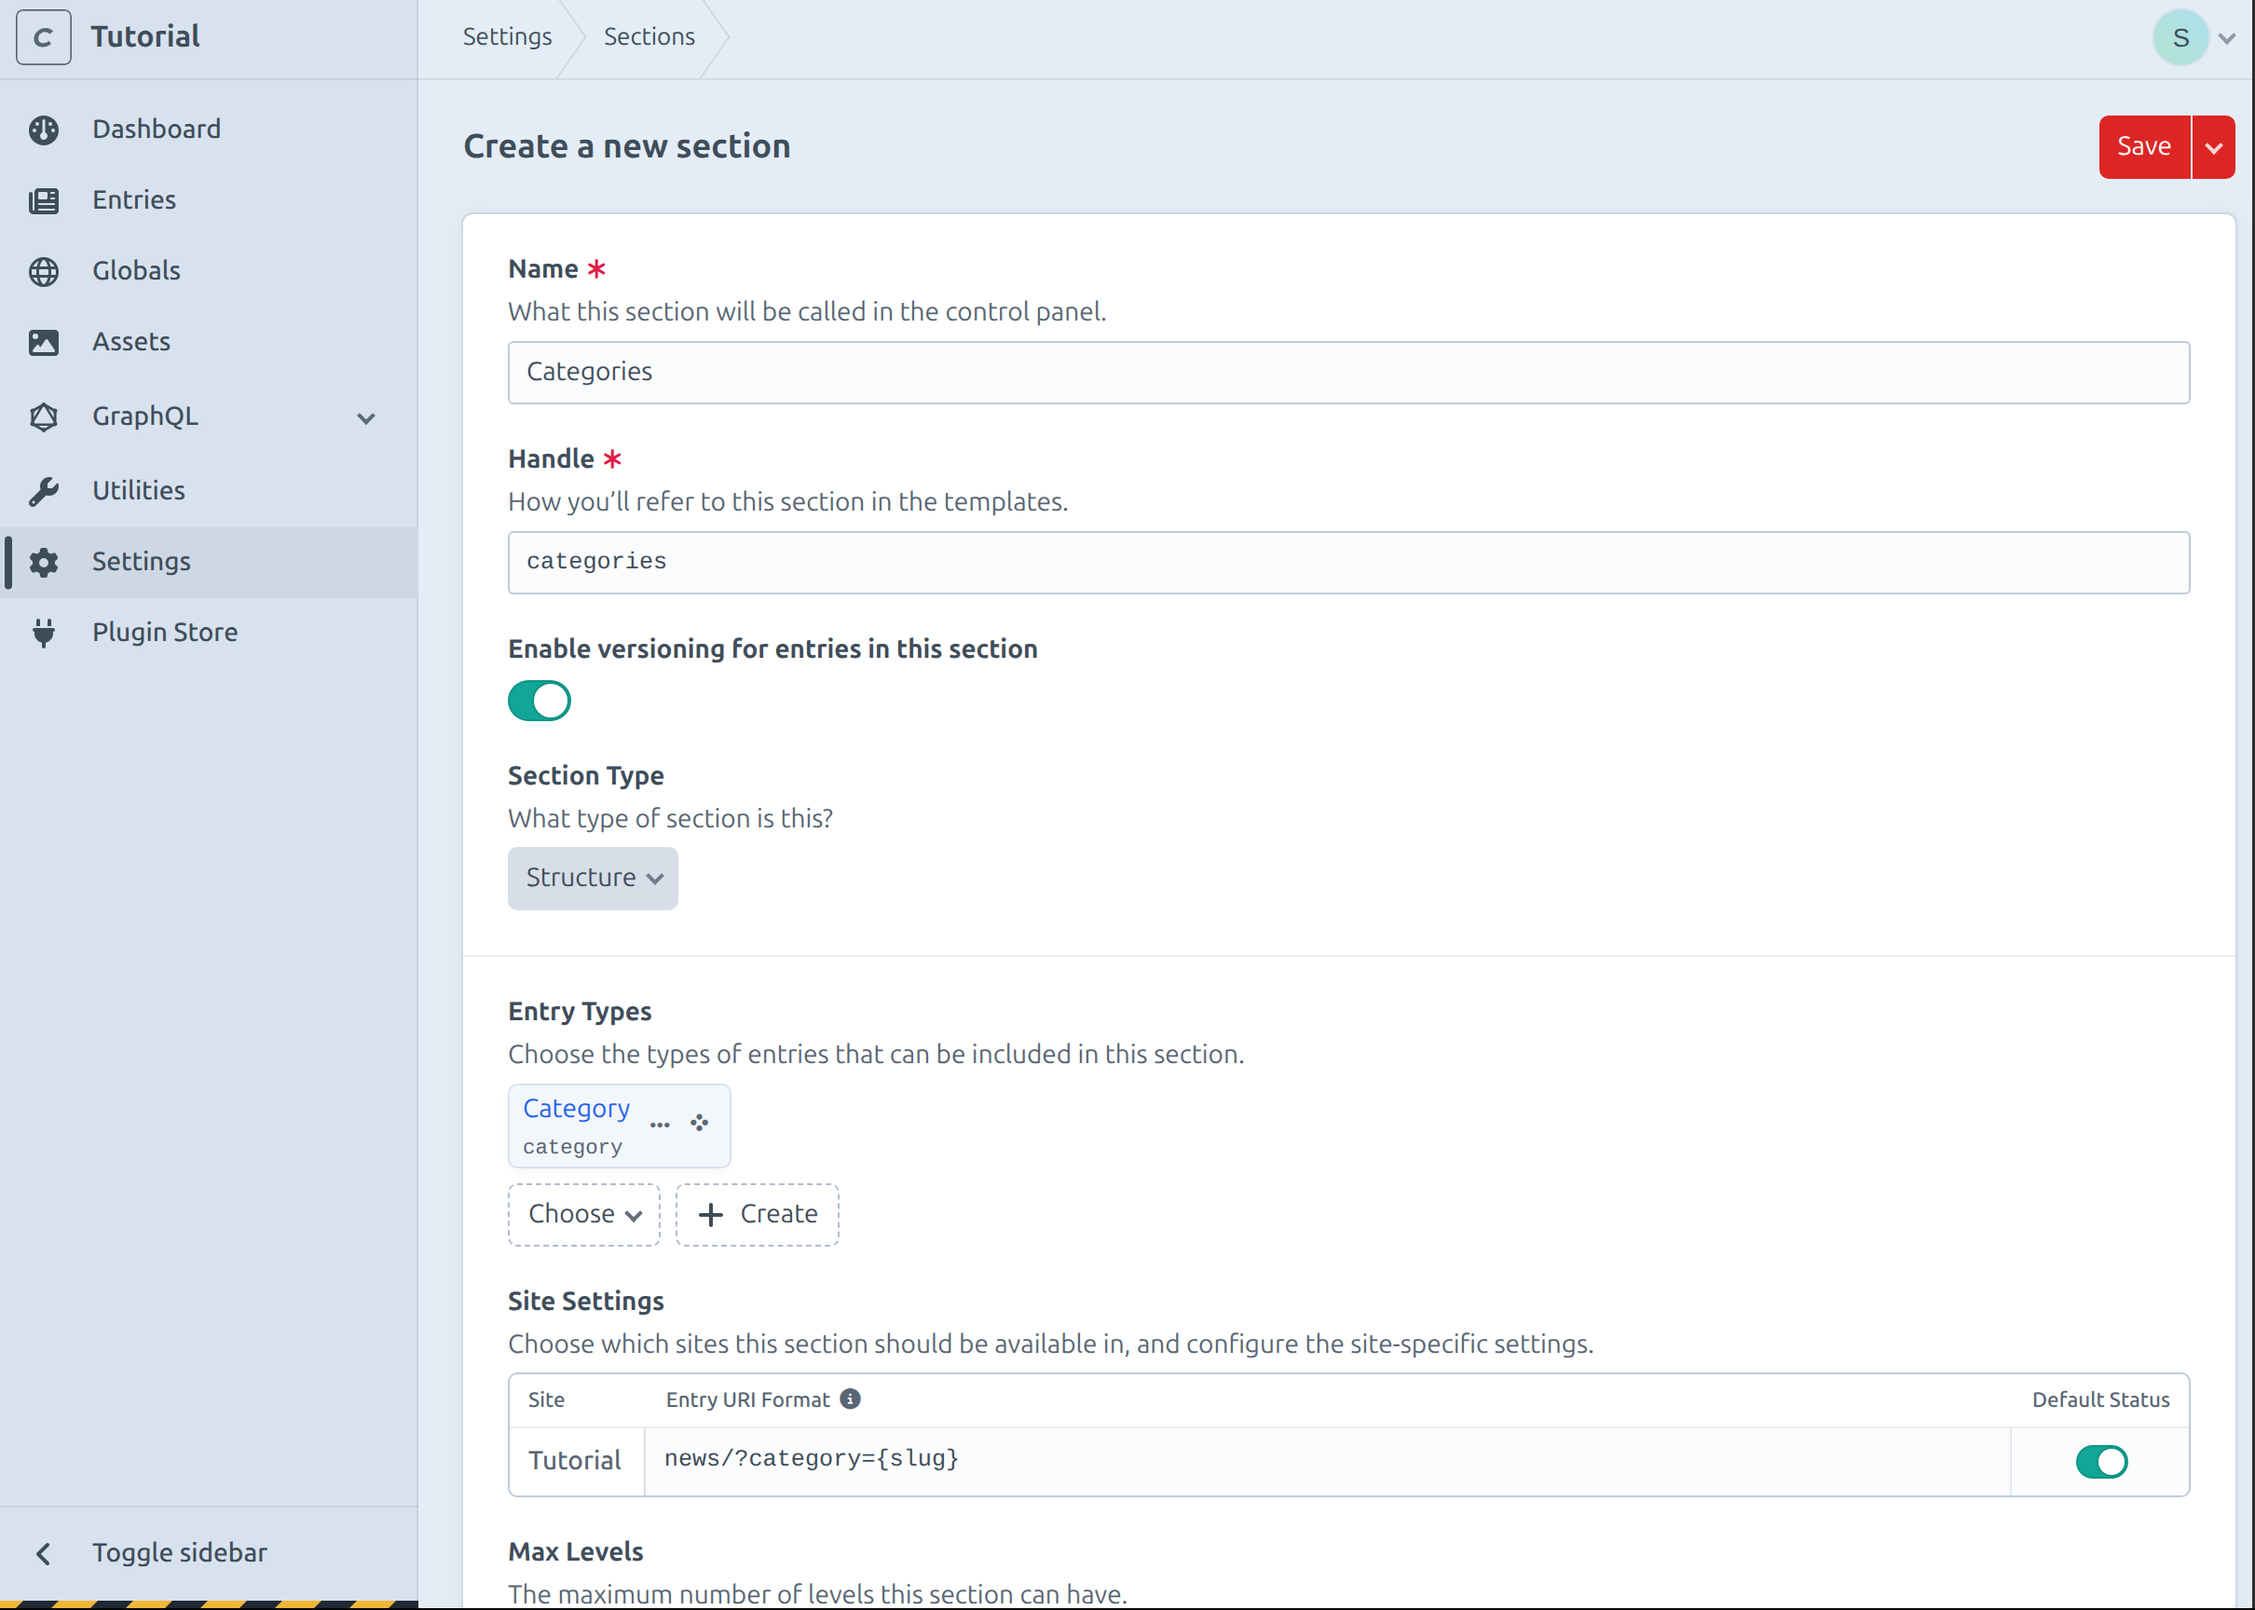
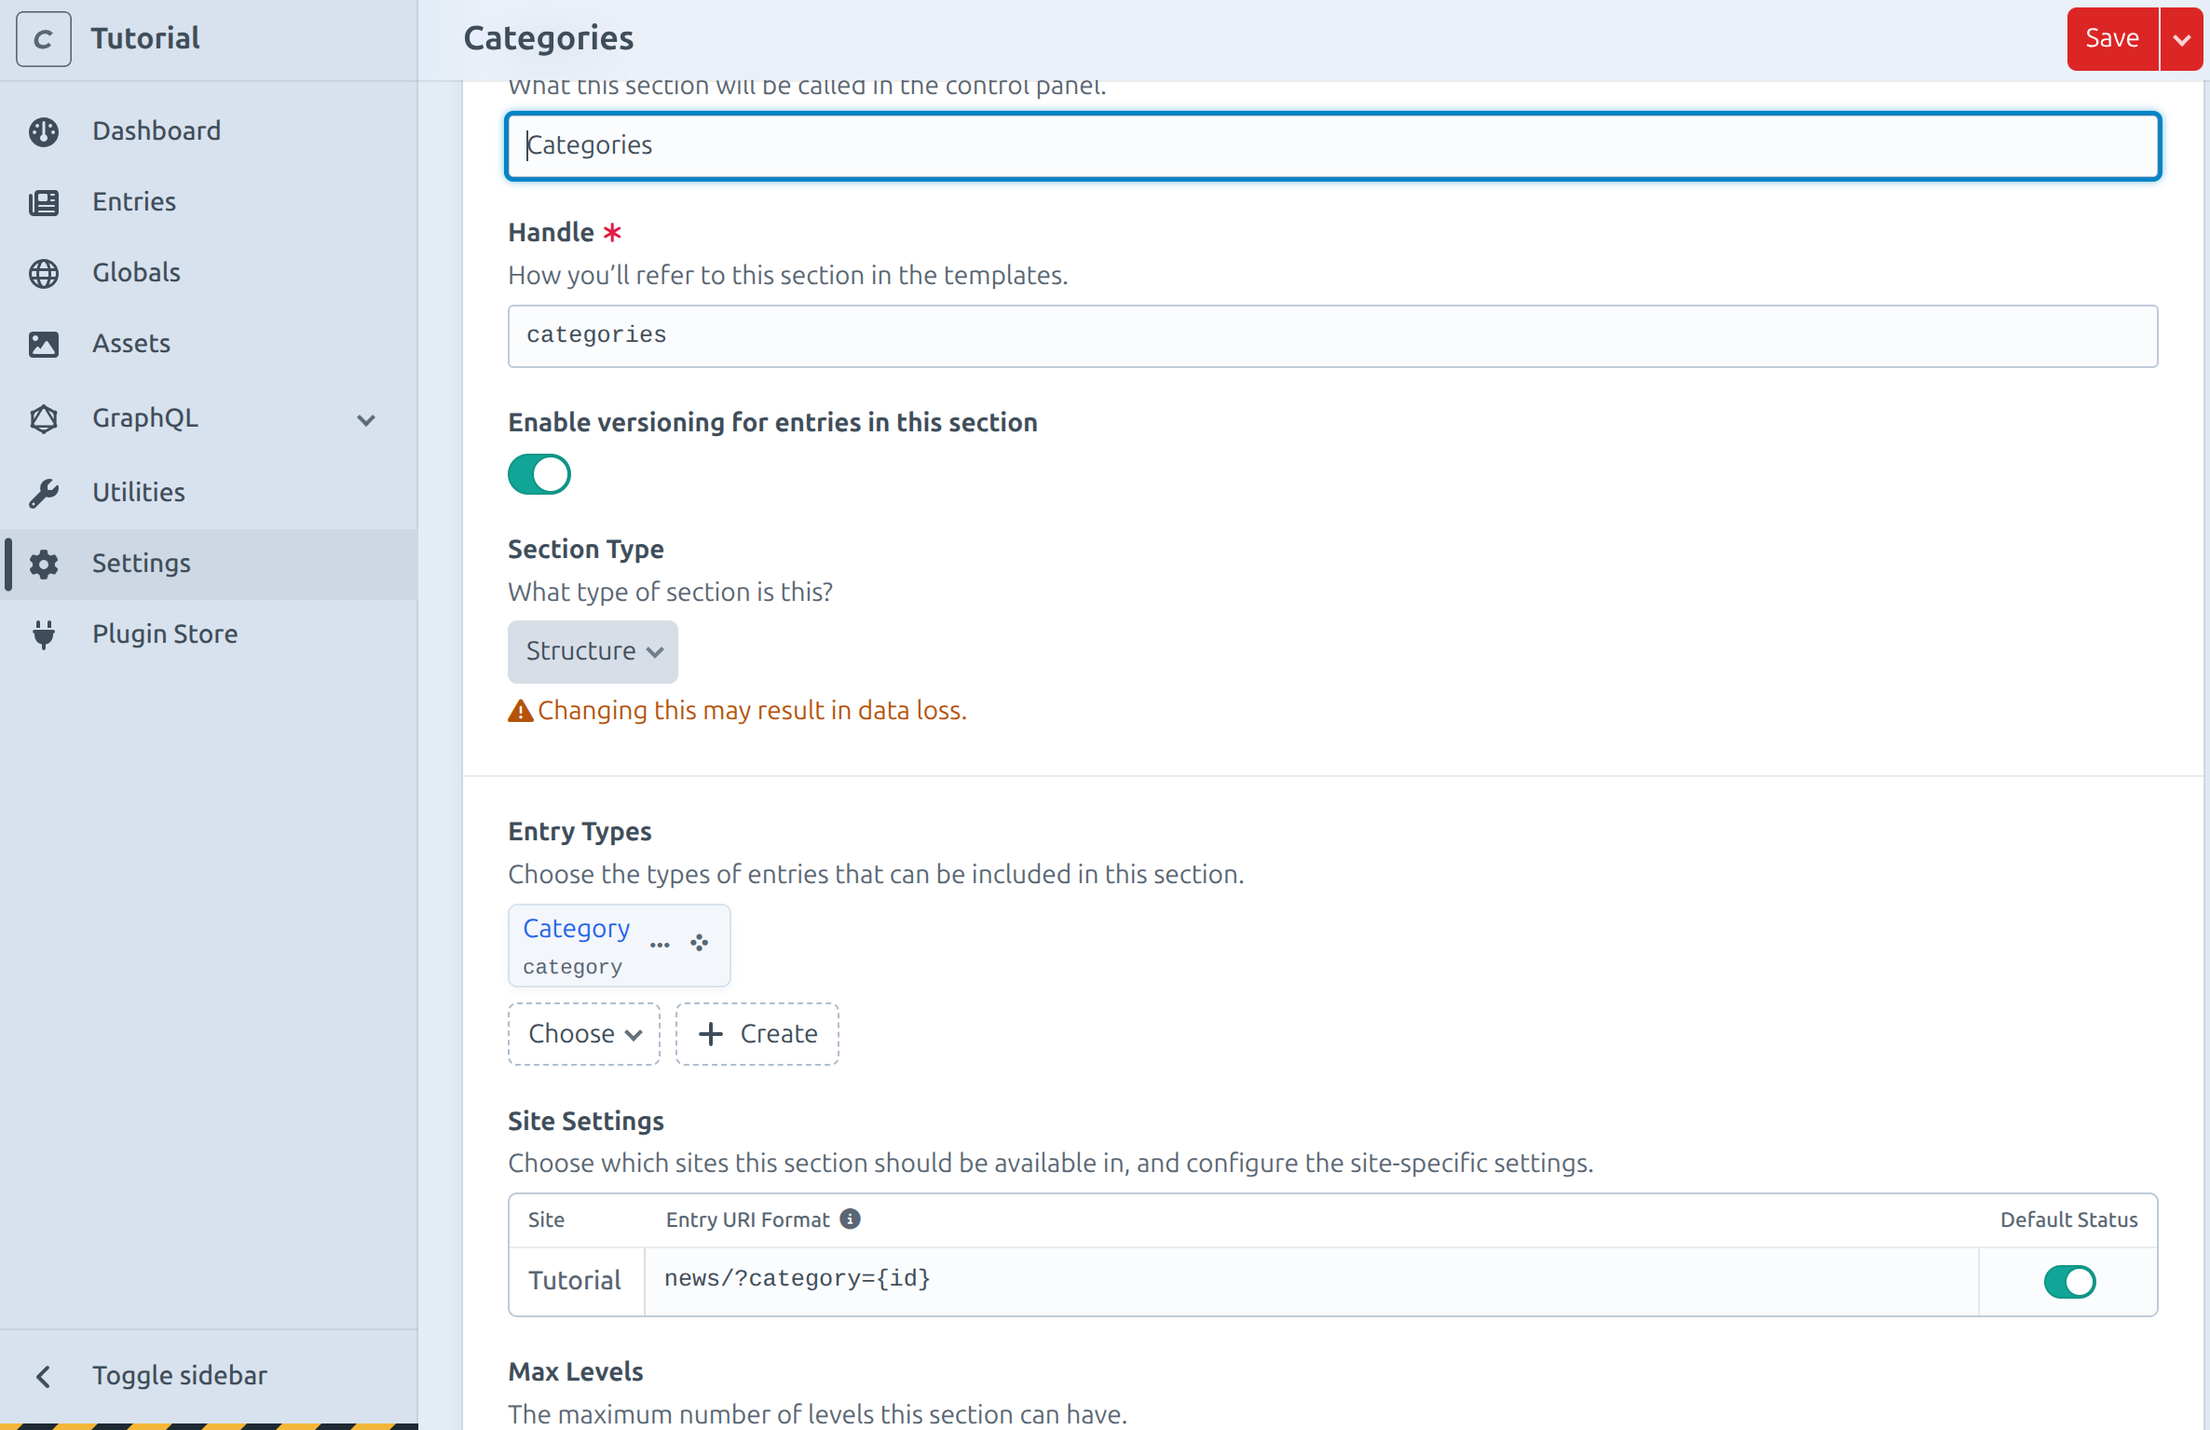
finish news

Changed region(s): [[0.0, 0.0, 1.0, 1.0], [0.0, 0.0, 0.0936, 0.3062], [0.0, 0.3368, 0.0936, 0.4593]]

diff --git a/docs/tutorial/04-news/02-svelte.md b/docs/tutorial/04-news/02-svelte.md
@@ -1,5 +1,26 @@
 # Svelte news
 
+To have the news page working we should add it to the `entry.graphql` file.
+```graphql{12-15}
+query ($uri: [String], $siteId: [QueryArgument]) {
+  entry(uri: $uri, siteId: $siteId) {
+    ...
+    # those field should be available for a generic page
+    ... on page_Entry {
+      title
+      content {
+        ...Text
+        ...Images
+      }
+    }
+    ... on news_Entry {
+      url
+      title
+    }
+  }
+}
+```
+
 At the moment if you open the news page. You should get the following error in the console `Template not found: <pages-news>`.
 
 To fix that let's create a new file `svelte/src/templates/pages-news.svelte` with the following content:
@@ -12,9 +33,182 @@ To fix that let's create a new file `svelte/src/templates/pages-news.svelte` wit
 </script>
 
 <script>
+	export let entry;
 	export let articles;
 </script>
 
-{#each articles as article}
-{/each}
+<h1>{entry.title}</h1>
+
+<div class="articles">
+	{#each articles as article}
+		<article>
+			<h2>{article.title}</h2>
+
+			<div class="categories">
+				{#each article.categories as category}
+					<span>{category.title}</span>
+				{/each}
+			</div>
+
+			<a href={article.url}>Read</a>
+		</article>
+	{/each}
+</div>
+
+<style lang="scss">
+	article {
+		margin-bottom: 1rem;
+	}
+
+	.categories {
+		display: flex;
+		flex-wrap: wrap;
+		gap: 0.5rem;
+	}
+</style>
+
+```
+
+## Articles query
+
+This file references the articles.graphql query which we need to create now.
+
+Create a new file `svelte/src/queries/articles.graphql` with the following content:
+```graphql
+query ($siteId: [QueryArgument]) {
+  articles: entries(section: "news", siteId: $siteId) {
+    ... on article_Entry {
+      url
+      title
+      categories {
+        title
+      }
+    }
+  }
+}
+```
+
+This query will fetch all articles in the news section and return them in the articles variable.
+
+## Filter
+
+At this stage you should see a list of news articles.
+
+To add a filter we need to modify the `articles.graphql` and the loadData.
+
+```graphql{1-2,11-16}
+query ($categories: [QueryArgument], $siteId: [QueryArgument]) {
+  articles: entries(section: "news", categories: $categories, siteId: $siteId) {
+    ... on article_Entry {
+      url
+      title
+      categories {
+        title
+      }
+    }
+  }
+  categories: entries(section: "categories", siteId: $siteId) {
+    ... on category_Entry {
+      url
+      title
+    }
+  }
+}
+```
+
+We also add another query `categories`, so we can list them in the filter.
+
+The new `pages-news.svelte` looks like this:
+```svelte {4-10,21-26}
+<script context="module">
+	import articlesQuery from '@/queries/articles.graphql';
+
+	// this will execute the query
+	/** @type {import('crelte').LoadData} */
+	export const loadData = cr =>
+		cr.query(articlesQuery, {
+			// get category from the url and pass it to the grapqhl
+			categories: cr.req.getSearchParam('category'),
+		});
+</script>
+
+<script>
+	export let entry;
+	export let articles;
+	export let categories;
+</script>
+
+<h1>{entry.title}</h1>
+
+<div class="categories">
+	<a href={entry.url}>All categories</a>
+	{#each categories as category}
+		<a href={category.url}>{category.title}</a>
+	{/each}
+</div>
+
+<div class="articles">
+	{#each articles as article}
+		<article>
+			<h2>{article.title}</h2>
+
+			<div class="categories">
+				{#each article.categories as category}
+					<span>{category.title}</span>
+				{/each}
+			</div>
+
+			<a href={article.url}>Read</a>
+		</article>
+	{/each}
+</div>
+
+<style lang="scss">
+	article {
+		margin-bottom: 1rem;
+	}
+
+	.categories {
+		display: flex;
+		flex-wrap: wrap;
+		gap: 0.5rem;
+	}
+</style>
+```
+
+If you now click on a filter you should see that it already works.
+
+One issue we still have is that on each click it will reset the scroll to the top.
+
+To fix this we will need to prevent scrolling.
+
+The easiest way is to add an event listener and set disableScroll which will not scroll to the top when the new page is loaded.
+```svelte{1-4,10-17,22-27}
+<script>
+	import { getRouter } from 'crelte';
+
+	const router = getRouter();
+
+	export let entry;
+	export let articles;
+	export let categories;
+
+	function onCategoryClick(e) {
+		e.preventDefault();
+		e.stopPropagation();
+
+		router.open(e.target.href, {
+			disableScroll: true,
+		});
+	}
+</script>
+
+<h1>{entry.title}</h1>
+
+<div class="categories">
+	<a href={entry.url} on:click={onCategoryClick}>All categories</a>
+	{#each categories as category}
+		<a href={category.url} on:click={onCategoryClick}>{category.title}</a>
+	{/each}
+</div>
 ```

diff --git a/docs/tutorial/04-news/01-craft.md b/docs/tutorial/04-news/01-craft.md
@@ -11,7 +11,7 @@ Go to `Settings > Sections` and click `New section`.
 
 Name it `Categories` and set the `Type` to `Structure` which allows
 to re order the categories.
-Change the URI format to `news/?category={slug}`.
+Change the URI format to `news/?category={id}`.
 Set `Max Levels` to `1` so the categories cannot be nested.
 Create a new Entry Type named `Category`.
 

diff --git a/docs/tutorial/04-news/03-end.md b/docs/tutorial/04-news/03-end.md
@@ -1,0 +1,3 @@
+# Crelte
+
+Congratulations! You have successfully made it to the end of the tutorial.
